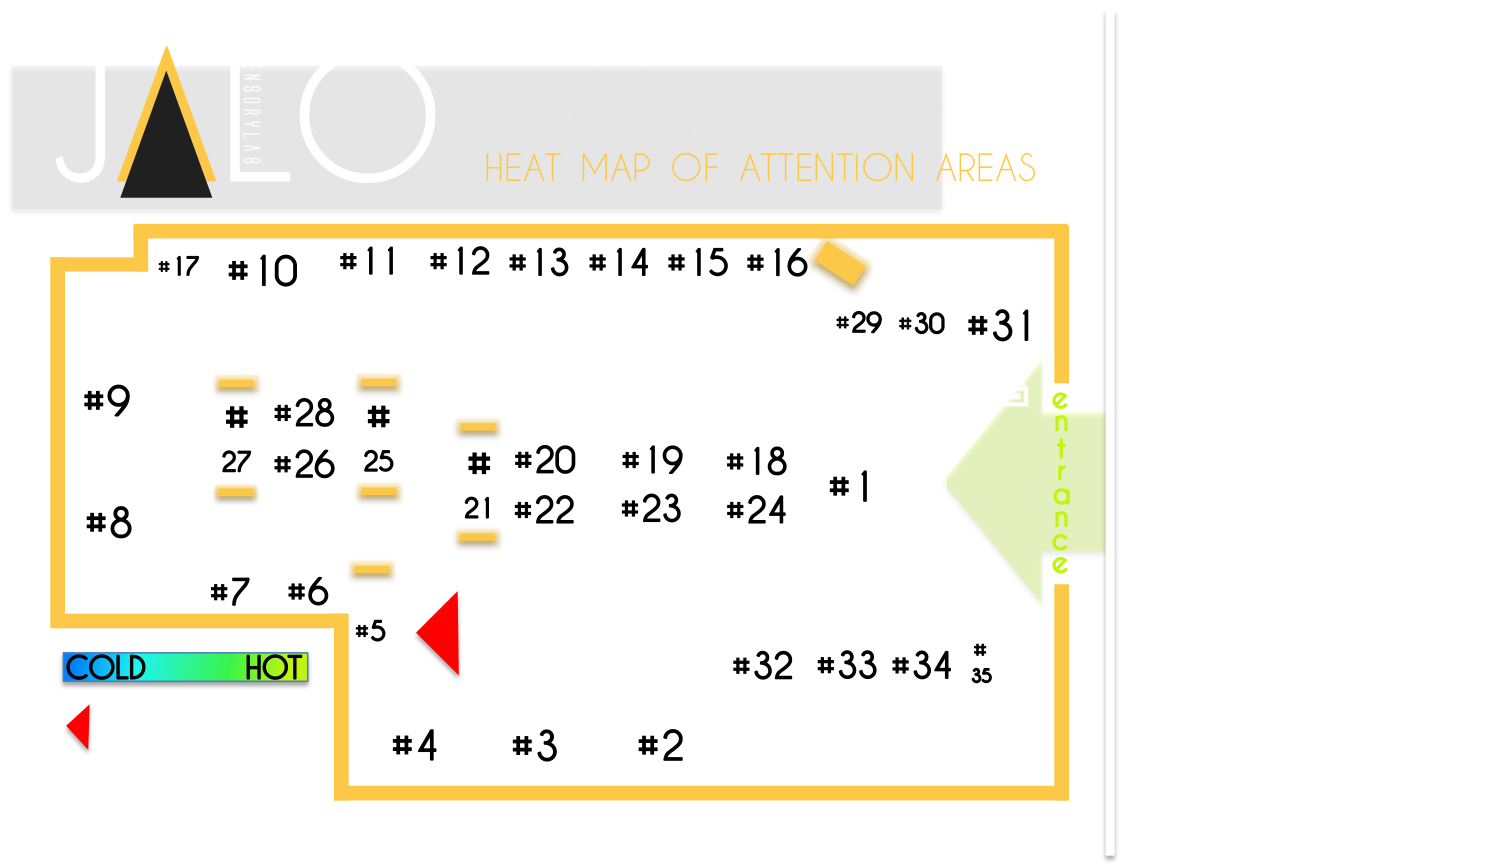
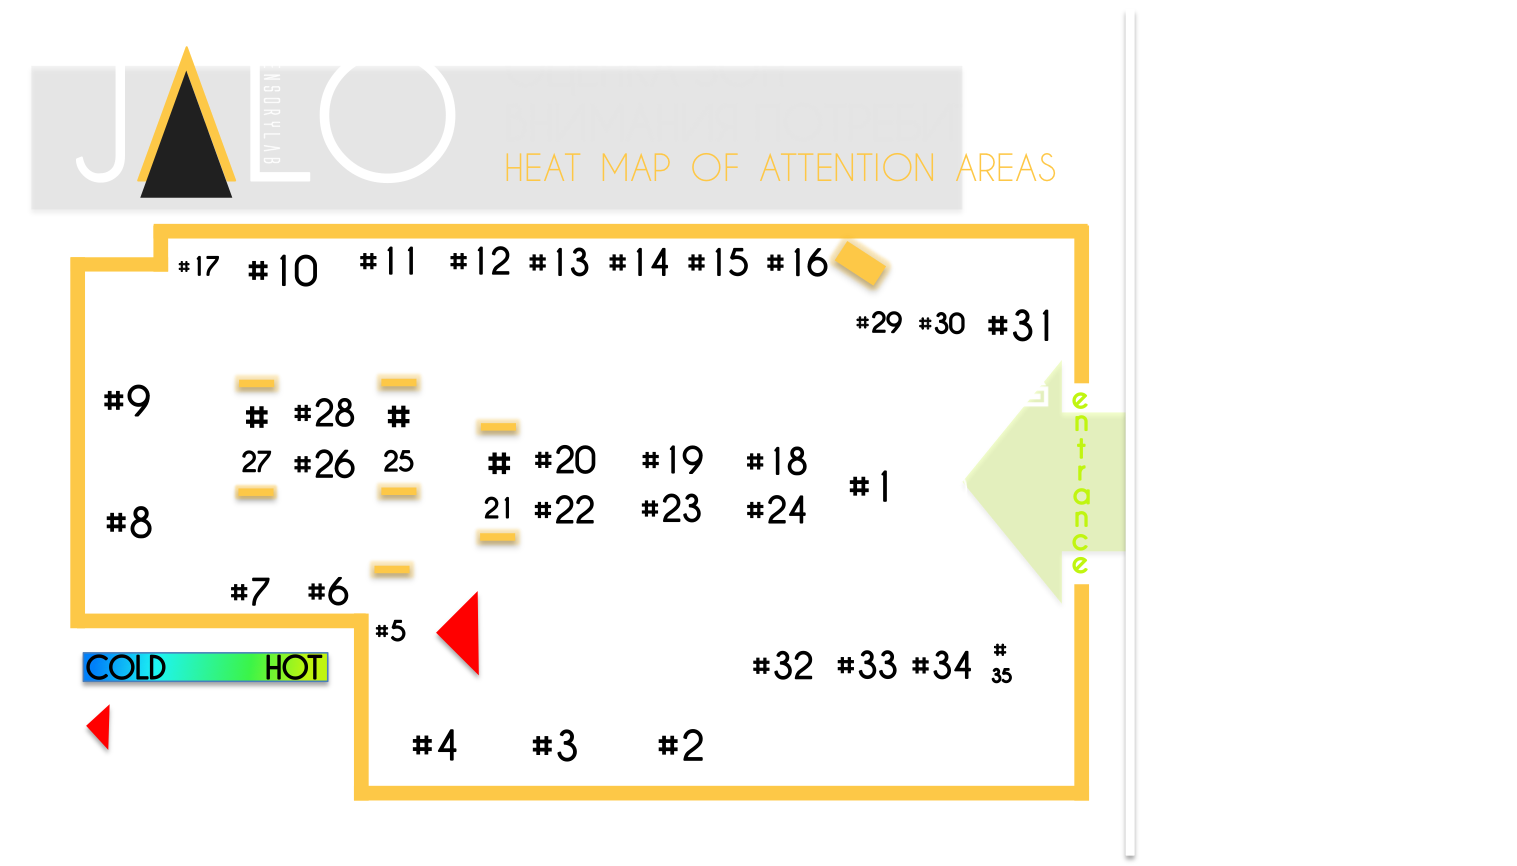
Added wrapper to fix infinite hang

diff --git a/web/jalo/jalo_display/static/pages/index.html b/web/jalo/jalo_display/static/pages/index.html
@@ -1,33 +1,7 @@
-<html xmlns:z-index="http://www.w3.org/1999/xhtml">
+<html xmlns:z-index="http://www.w3.org/1999/xhtml" xmlns:border-color="http://www.w3.org/1999/xhtml">
 <head>
     <script type="text/javascript" src="static/js/scroll.js"></script>
     <link rel="stylesheet" href="static/css/main.css">
-    <style>
-        html {
-            scroll-behavior: smooth;
-        }
-    </style>
-
-    <script>
-        async function runScroll() {
-
-            var timeout = 15000;
-
-            while (true) {
-                await sleep(timeout);
-                window.scroll(0, document.getElementById("slide2").offsetTop);
-                await sleep(timeout);
-                window.scroll(0, document.getElementById("slide3").offsetTop);
-                await sleep(timeout);
-                window.scroll(0, document.getElementById("slide4").offsetTop);
-                await sleep(timeout);
-                window.scroll(0, document.getElementById("slide5").offsetTop);
-                await sleep(timeout);
-                window.scroll(0, document.getElementById("slide1").offsetTop);
-                window.location.reload(true);
-            }
-        }
-    </script>
 
 </head>
 
@@ -36,16 +10,22 @@
 <!--<body>-->
 
 <div id="slide1">
-    <img style="width: 100%" src="static/images/Slai_774_d08.png" onclick="runScroll()">
+    <img style="width: 100%" src="static/images/JlQQyHAcq8Y.jpg">
 </div>
 
 <div style="height: 100px"></div>
 
 <div style="position: relative" id="slide2">
 
-    <div style="width: 69%; position: absolute; top: 21.3%; left: 0.5%; z-index: auto;">
+    <div style="width: 68%; position: absolute; top: 20.7%; left: 1.85%; z-index: auto;">
         $$MAP$$
     </div>
+
+    <div class="info_label" style="width: 10%; position: absolute; top: 21.5%; right: 8.5%;">$$TOTAL_VISITS$$</div>
+
+    <div class="info_label" style="width: 10%; position: absolute; top: 51.3%; right: 8.5%;">$$TOTAL_TIME$$</div>
+
+    <div class="info_label" style="width: 10%; position: absolute; top: 82%; right: 8.5%;">$$MEAN_VISIT_TIME$$</div>
 
     <div style="width: 100%; position: relative; top: 20%; z-index:auto">
         <img style="width: 100%;" src="static/images/Obschie_pokazateli.png">
@@ -55,7 +35,7 @@
 
 <div style="position: relative" id="slide3">
 
-    <div style="width: 69%; position: absolute; top: 21.3%; left: 0.5%; z-index: auto;">
+    <div style="width: 68%; position: absolute; top: 21.3%; left: 1.9%; z-index: auto;">
         $$MAP$$
     </div>
 
@@ -67,9 +47,20 @@
 
 <div style="position: relative" id="slide4">
 
-    <div style="width: 69%; position: absolute; top: 21.3%; left: 0.5%; z-index: auto;">
-        $$MAP$$
+    <div style="width: 68%; position: absolute; top: 22.5%; left: 1.75%; z-index: auto;">
+        $$MAPGRAY$$
     </div>
+
+    <table style="position: absolute; top: 17.5%; right: 8.2%; height: 74.2%;">
+        <tr><td><div class="info_label">$$AD1$$</div></td></tr>
+        <tr><td><div class="info_label">$$AD2$$</div></td></tr>
+        <tr><td><div class="info_label">$$AD3$$</div></td></tr>
+        <tr><td><div class="info_label">$$AD4$$</div></td></tr>
+        <tr><td><div class="info_label">$$AD5$$</div></td></tr>
+        <tr><td><div class="info_label">$$AD6$$</div></td></tr>
+        <tr><td><div class="info_label">$$AD7$$</div></td></tr>
+        <tr><td><div class="info_label">$$AD8$$</div></td></tr>
+    </table>
 
     <div style="width: 100%; position: relative; top: 20%; z-index:auto">
         <img style="width: 100%;" src="static/images/Tsifry.png">

diff --git a/web/jalo/jalo_display/static/js/scroll.js b/web/jalo/jalo_display/static/js/scroll.js
@@ -4,16 +4,18 @@ function sleep(ms) {
 
 async function runScroll(){
 
-    var timeout = 12000;
-
-    while (true) {
-        window.scroll(0, document.getElementById("slide2").offsetTop);
-        await sleep(timeout);
-        window.scroll(0, document.getElementById("slide3").offsetTop);
-        await sleep(timeout);
-        window.scroll(0, document.getElementById("slide4").offsetTop);
-        await sleep(timeout);
+    // while (true) {
         window.scroll(0, document.getElementById("slide1").offsetTop);
-        await sleep(timeout);
-    }
+        await sleep(10000);
+        window.scroll(0, document.getElementById("slide2").offsetTop);
+        await sleep(15000);
+        window.scroll(0, document.getElementById("slide3").offsetTop);
+        await sleep(30000);
+        window.scroll(0, document.getElementById("slide4").offsetTop);
+        await sleep(15000);
+        window.scroll(0, document.getElementById("slide5").offsetTop);
+        await sleep(10000);
+        window.scroll(0, document.getElementById("slide1").offsetTop);
+        // window.location.reload(true);
+    // }
 }

diff --git a/web/jalo/jalo_display/static/pages/wrapper.html b/web/jalo/jalo_display/static/pages/wrapper.html
@@ -1,0 +1,28 @@
+<!DOCTYPE html>
+<html lang="en">
+<head>
+    <meta charset="UTF-8">
+    <title>JALO</title>
+    <script>
+        function sleep(ms) {
+          return new Promise(resolve => setTimeout(resolve, ms));
+        }
+
+        async function waitReload(){
+            while (true) {
+                await sleep(80100);
+                document.getElementById("frame").contentWindow.location.reload(true);
+            }
+        }
+    </script>
+
+    <style>
+        body {
+            margin: 0;
+        }
+    </style>
+</head>
+<body onload="waitReload()">
+    <iframe src="/" id="frame" style="position:fixed; top:0; left:0; bottom:0; right:0; width:100%; height:100%; border:none; margin:0; padding:0; overflow:hidden; z-index:999999;"></iframe>
+</body>
+</html>

diff --git a/web/jalo/jalo_display/static/css/main.css b/web/jalo/jalo_display/static/css/main.css
@@ -37,5 +37,13 @@ p {
 }
 
 html {
-  scroll-behavior: smooth;
+    scroll-behavior: smooth;
+    overflow:hidden;
 }
+
+.info_label {
+            color: white;
+            font-family: "Caviar Dreams";
+            font-size: 3vmax;
+            text-align: center;
+        }

diff --git a/web/jalo/jalo_display/views.py b/web/jalo/jalo_display/views.py
@@ -12,7 +12,7 @@ import cv2 as cv
 # Create your views here.
 
 history_size = 5000
-MODELS_DIR = os.path.join(os.path.dirname(__file__), "../../../models/shop1_2")
+MODELS_DIR = os.path.join(os.path.dirname(__file__), "../../../models/shop1_3")
 viewport_disp = [0.0, 0.0, 200.0, 150.0]
 viewport = [-6.5, -5.5, 20.0, 15.0]
 
@@ -46,9 +46,46 @@ def reload_models():
         targets[name]["model"] = points
 
 def reload_db():
+    global all_time
+    global consumers_count
+    global mean_visit_time
+
     entries = TargetData.objects.all()
 
+    FPS = 25.0
+    MIN_SECONDS_PER_VISIT = 15
+
     #entries = list(entries)[-history_size:]
+
+    all_visits = []
+    all_time = 0
+
+    visits = {}
+    last_seq = 0
+    entry: TargetData
+    for entry in entries:
+        if entry.frame < last_seq:
+            for visit in visits.values():
+                all_visits.append(visit)
+            visits = {}
+            all_time += 1.0 / FPS * last_seq
+        last_seq = entry.frame
+        # if entry.target is None:
+        #     continue
+        if entry.person_id not in visits:
+            visits[entry.person_id] = []
+        visits[entry.person_id].append(entry.target)
+    for visit in visits.values():
+        all_visits.append(visit)
+    all_time += 1.0 / FPS * last_seq
+
+    all_visits = list(filter(lambda x: len(x) > MIN_SECONDS_PER_VISIT, all_visits))
+    visit_times = list(map(lambda x: len(x), all_visits))
+
+    consumers_count = len(all_visits)
+    mean_visit_time = np.average(visit_times)
+
+    print(consumers_count, all_time, mean_visit_time)
 
     for name in targets:
         targets[name]["hits"] = 0
@@ -91,6 +128,18 @@ def index(request):
     'viewBox="{} {} {} {}" '.format(viewport_disp[0], viewport_disp[1], viewport_disp[2], viewport_disp[3]) + \
     'xml:space="preserve" preserveAspectRatio="none" >'
 
+    drawing_gray = '<svg version="1.1" id="Layer_1" xmlns="http://www.w3.org/2000/svg" xmlns:xlink="http://www.w3.org/1999/xlink"' + \
+    'x="{}px" y="{}px" '.format(viewport_disp[0], viewport_disp[1])+\
+    'viewBox="{} {} {} {}" '.format(viewport_disp[0], viewport_disp[1], viewport_disp[2], viewport_disp[3]) + \
+    'xml:space="preserve" preserveAspectRatio="none" >'
+
+    ads = []
+    for i in range(8):
+        ads.append(targets["ad"+str(i+1)]["hits"])
+    ads = np.float32(ads)
+    ads = ads / np.sum(ads) * 100
+    ads = np.int32(ads)
+
     for name, data in targets.items():
         heat = data["heat"]
         h0 = 240
@@ -101,6 +150,7 @@ def index(request):
         for (x0, y0), (x1, y1), (x2, y2) in data["model"]:
             # drawing += '<rect id="box" x="{}" y="{}" width="{}" height="{}"/>'.format(x, y, w, h)
             drawing += '<polygon style="fill: {}" id="box" points="{},{} {},{} {},{}"/>\n'.format(color, x0, y0, x1, y1, x2, y2)
+            drawing_gray += '<polygon style="fill: {}" id="box" points="{},{} {},{} {},{}"/>\n'.format("#888888", x0, y0, x1, y1, x2, y2)
 
     # for name, data in targets.items():
     #     xc, yc = data["center"]
@@ -111,5 +161,18 @@ def index(request):
     drawing += "</svg>"
 
     html = html.replace("$$MAP$$", drawing)
+    html = html.replace("$$MAPGRAY$$", drawing_gray)
+
+    html = html.replace("$$TOTAL_VISITS$$", str(consumers_count))
+    html = html.replace("$$TOTAL_TIME$$", str(int(all_time / 360) / 10.0) + " hrs")
+    html = html.replace("$$MEAN_VISIT_TIME$$", str(int(mean_visit_time)) + " sec")
+
+    for i in range(8):
+        html = html.replace("$$AD{}$$".format(i+1), str(ads[i]))
+
+    return HttpResponse(html)
+
+def wrapper(request):
+    html = open(os.path.join(os.path.dirname(__file__), "static/pages/wrapper.html")).read()
 
     return HttpResponse(html)

diff --git a/web/jalo/jalo/urls.py b/web/jalo/jalo/urls.py
@@ -24,5 +24,6 @@ import os
 
 urlpatterns = [
     path('admin/', admin.site.urls),
-    path('', views.index)
+    path('', views.index),
+    path('wrapper/', views.wrapper),
 ] + static(settings.STATIC_URL, document_root=settings.STATIC_ROOT)
